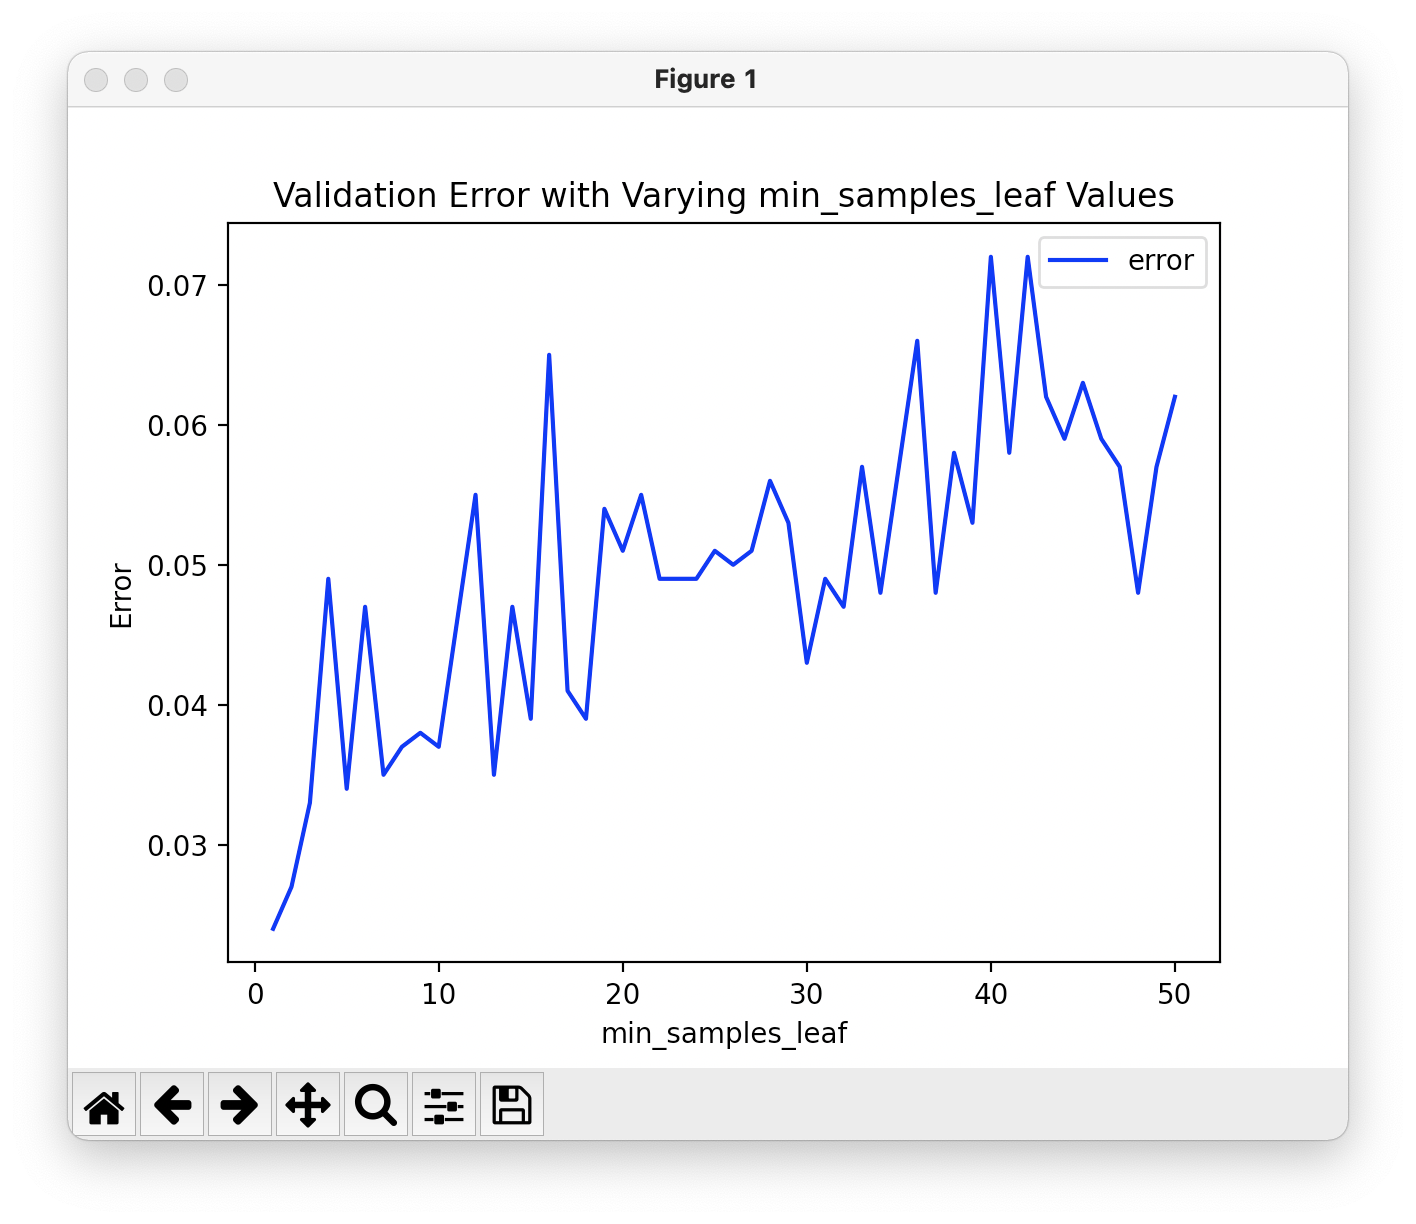
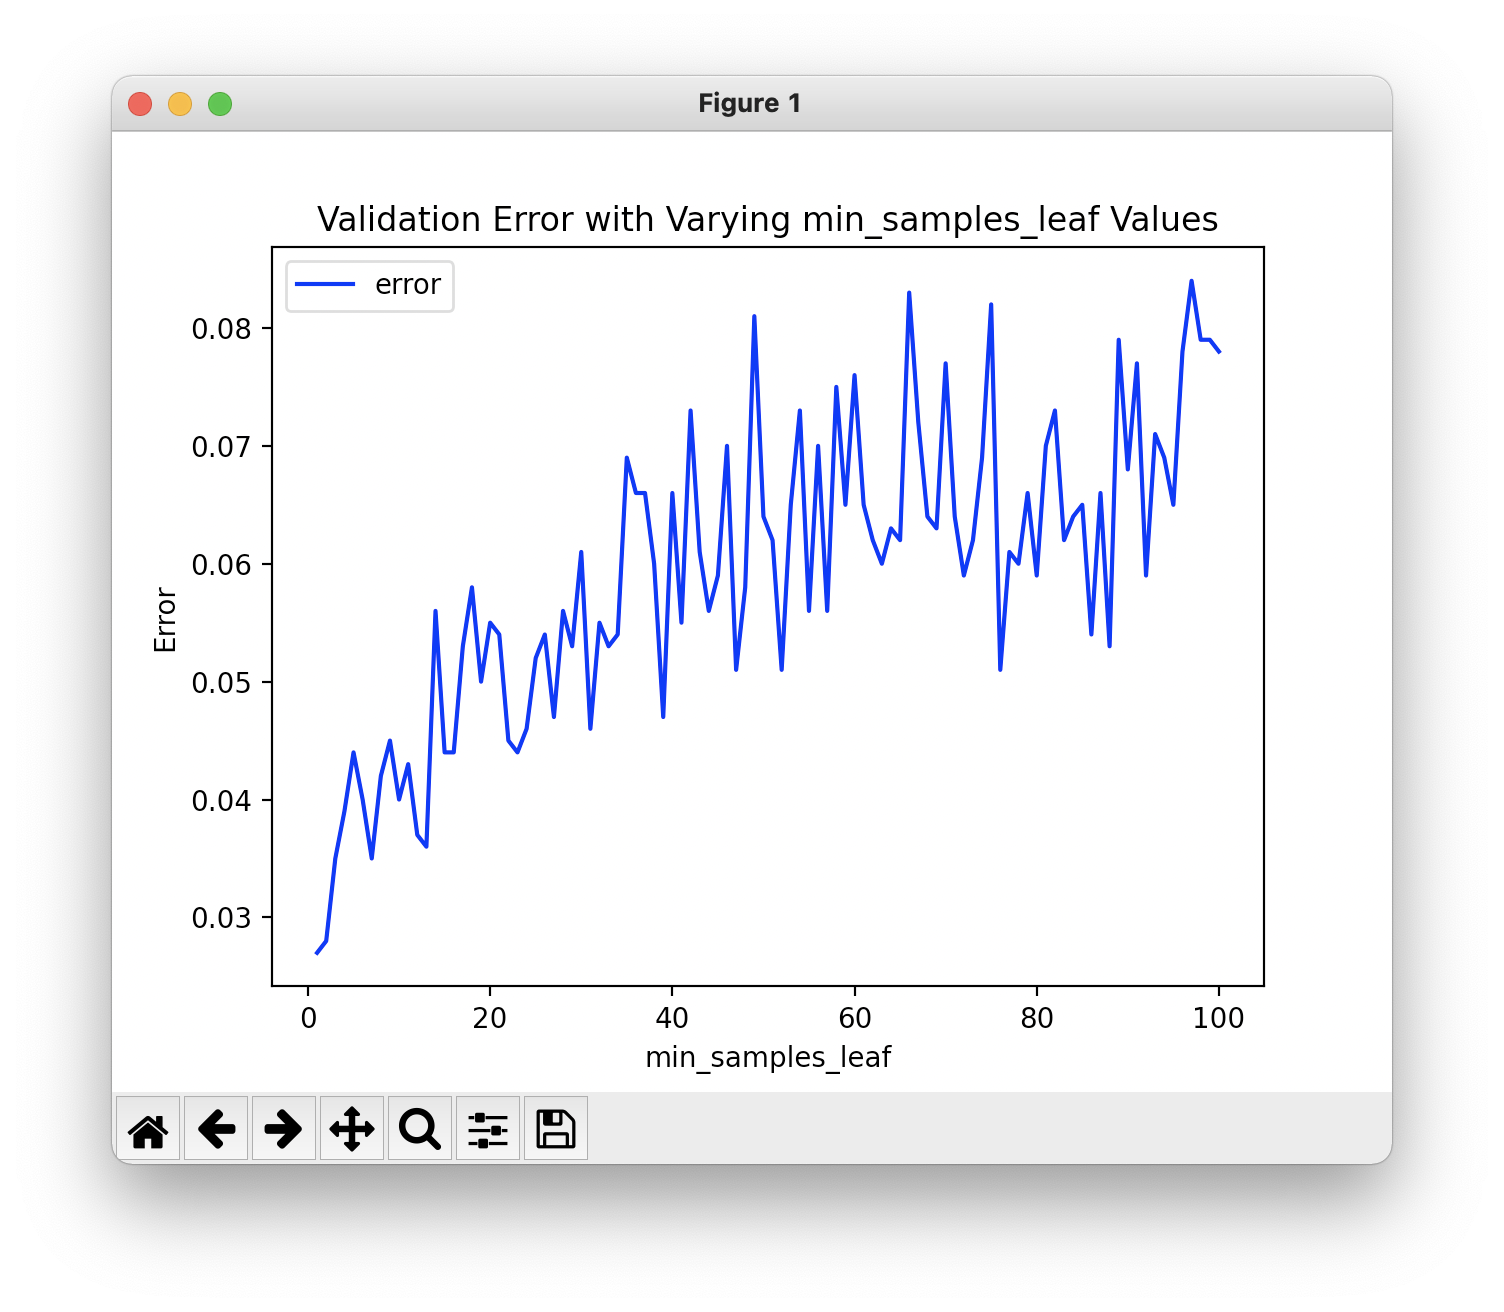
Parameters inputed for test set, cleaned up code.

Changed region(s): [[0.0311, 0.031, 0.9633, 0.9624], [0.7768, 0.7451, 0.839, 0.8382], [0.6525, 0.7451, 0.7147, 0.8382]]

diff --git a/randomForests.py b/randomForests.py
@@ -47,6 +47,14 @@ def main():
 
 
 
+    #myForest = RandomForestClassifier(n_estimators = 100, max_depth = 40, min_samples_leaf = 1, random_state = 39, max_samples = 0.22)
+    myForest = RandomForestClassifier(n_estimators = 100, max_depth = 40, min_samples_leaf = 1, random_state = 39, max_samples = 0.20, min_samples_split = 10, n_jobs = 3)
+    myForest.fit(training_X, labels_Y)
+    print(myForest.score(test_X, labels_Y))
+
+    quit()
+
+
     # Create random forest classifier model(n_estimator)
     df = pd.DataFrame([], columns = ["num_trees", "error"])
     num_trees = 1
@@ -90,7 +98,7 @@ def main():
 
     num_trees = 100
     min_samples_leaf = 1
-    while min_samples_leaf <= 50:
+    while min_samples_leaf <= 100:
         randForest = RandomForestClassifier(min_samples_leaf = min_samples_leaf)
 
         # Train model with training data
